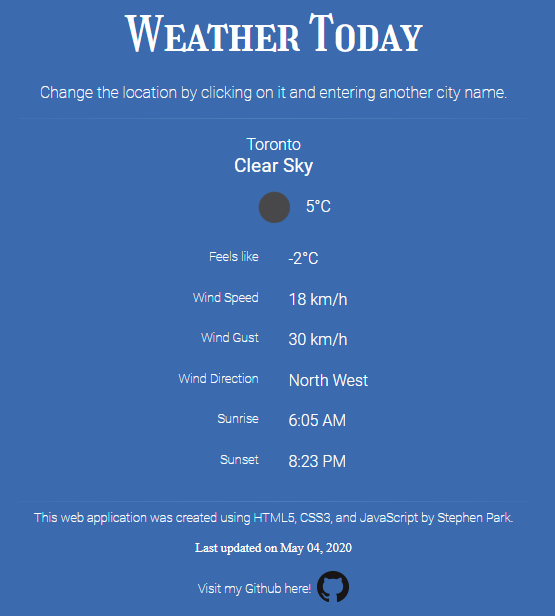
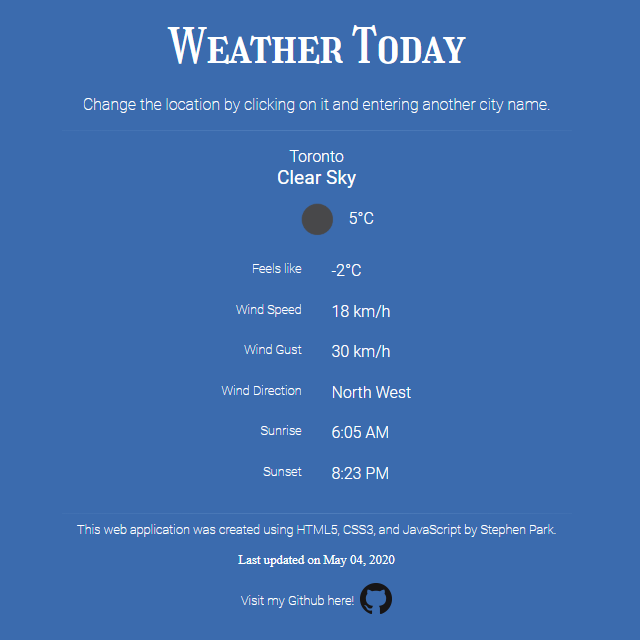
fix image

diff --git a/README.md b/README.md
@@ -1,7 +1,7 @@
 # Weather Today
 This web application uses AJAX to send GET requests to OpenWeatherMap API and gets current weather data (description, temperatures, feels like, wind speed/direction, sunrise, and sunset).<br />
 
-<img src="./images/screenshot.png" alt="screenshot" width="384">
+<img src="./images/screenshot.png" alt="screenshot" width="320">
 
 APIs used:<br />
 <ul>
